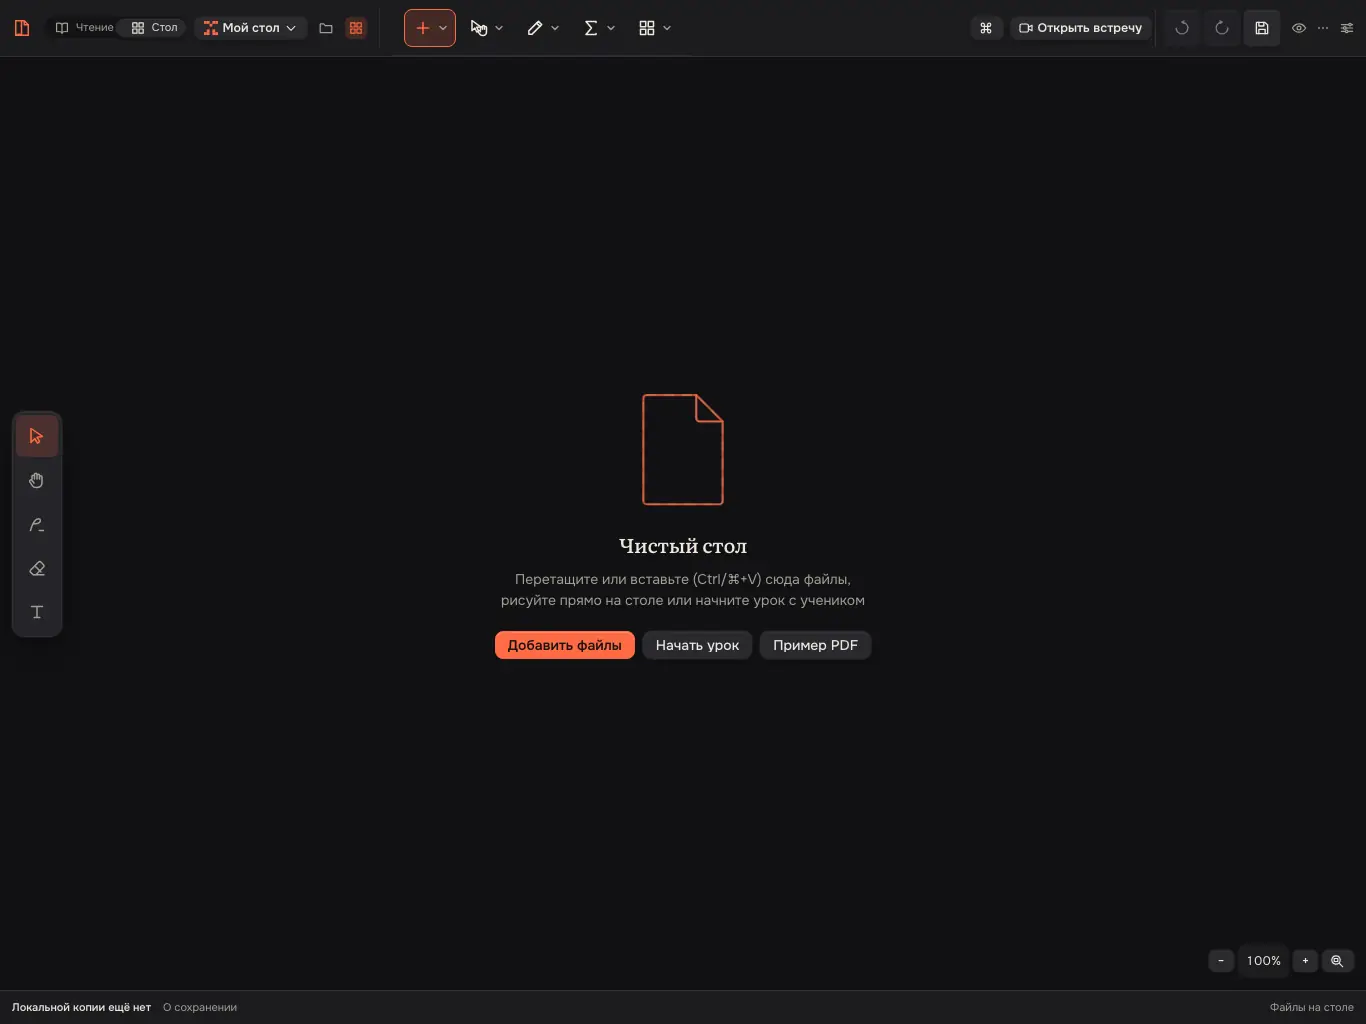
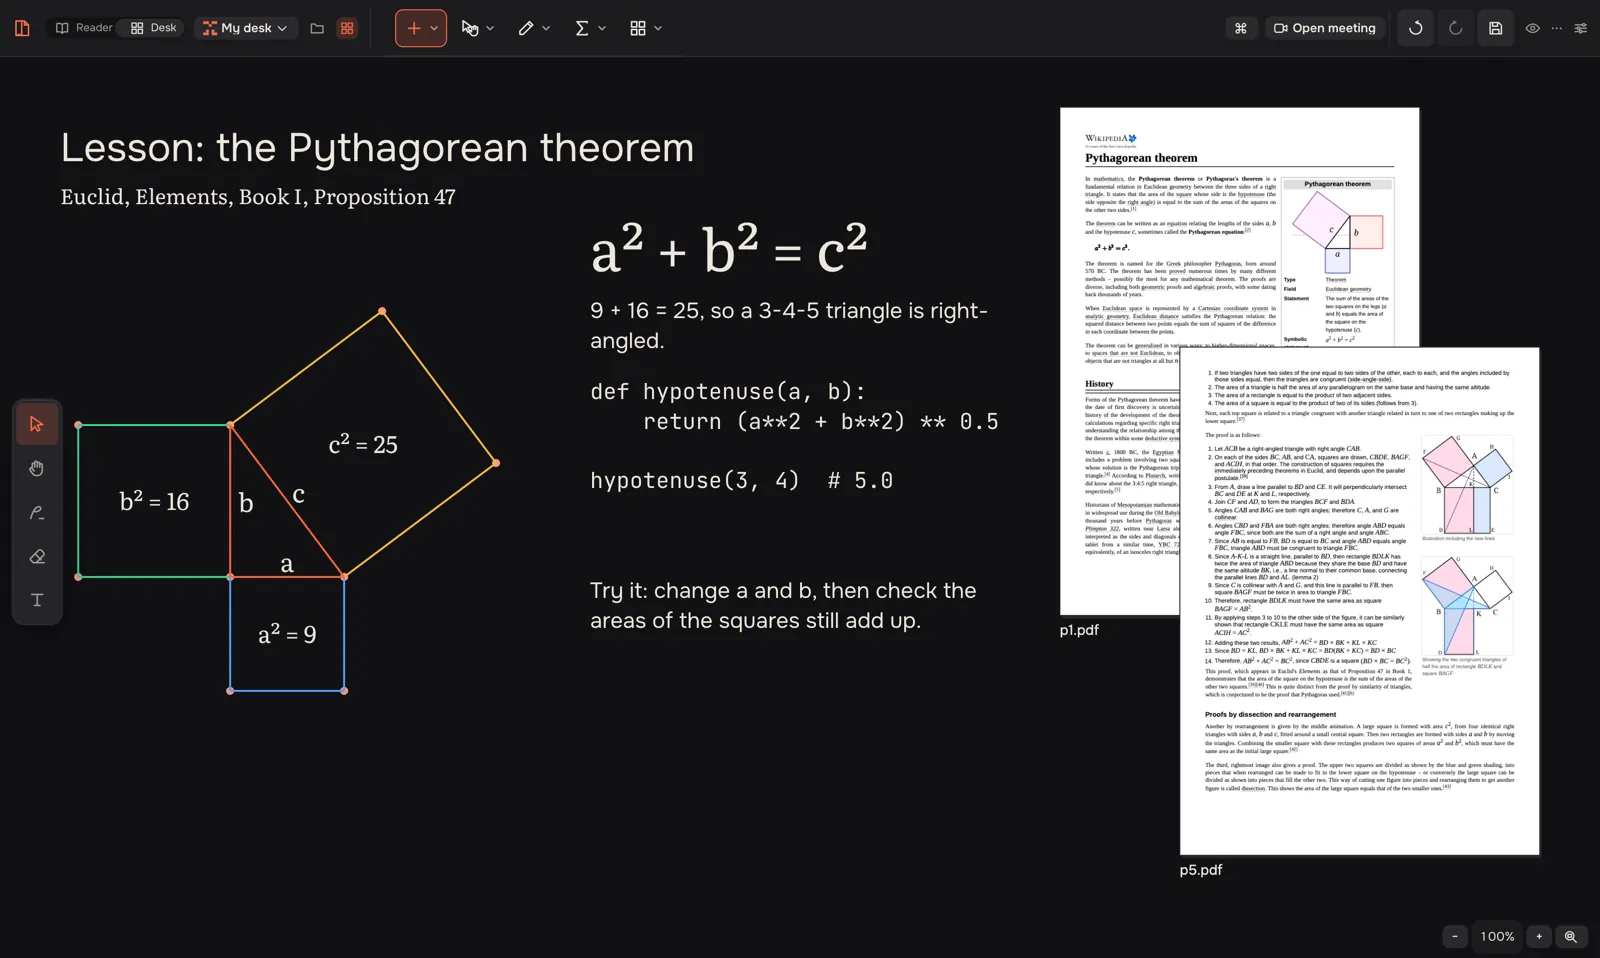
Show a Pythagorean theorem lesson in the Quire screenshots

diff --git a/lib/profile.ts b/lib/profile.ts
@@ -79,6 +79,8 @@ export type Project = {
   eyebrow?: string;
   highlights?: string[];
   note?: string;
+  shotAlt?: string;
+  credit?: string;
   /** A page of its own, when it is not generated from `slug`. */
   detailHref?: string;
   detailLabel?: string;
@@ -92,6 +94,9 @@ export const projects: Project[] = [
     stack: ["Tauri 2", "React", "TypeScript", "Playwright", "Oracle Cloud"],
     liveUrl: "https://app.thequire.app/",
     shot: "/projects/quire.webp",
+    phone: "/projects/quire-phone.webp",
+    shotAlt: "A Quire desk set up as a lesson on the Pythagorean theorem: a right triangle with a square on each side, the formula, a Python hypotenuse function and two PDF pages side by side",
+    credit: "PDF pages in the screenshots: Wikipedia, CC BY-SA 4.0.",
     noPreview: true,
     slug: "quire",
     eyebrow: "Main project, co-developed with my younger brother",

diff --git a/app/projects/[slug]/page.tsx b/app/projects/[slug]/page.tsx
@@ -48,9 +48,9 @@ export default async function ProjectPage({ params }: Params) {
             <figure className="panel min-w-0 flex-1 overflow-hidden">
               <img
                 src={`${base}${p.shot}`}
-                alt={`${p.name} on a desktop screen`}
-                width={1366}
-                height={1024}
+                alt={p.shotAlt ?? `${p.name} on a desktop screen`}
+                width={1600}
+                height={958}
                 fetchPriority="high"
                 decoding="async"
                 className="h-auto w-full"
@@ -71,6 +71,8 @@ export default async function ProjectPage({ params }: Params) {
             )}
           </div>
         </Reveal>
+
+        {p.credit && <p className="mt-3 text-micro text-fog">{p.credit}</p>}
 
         <Reveal>
           <div className="mt-10 grid gap-8 lg:grid-cols-[1.35fr_1fr]">

diff --git a/components/Projects.tsx b/components/Projects.tsx
@@ -121,7 +121,7 @@ function Shot({ project }: { project: Project }) {
     <div className="aspect-[16/10] overflow-hidden border-b border-line bg-well lg:border-b-0">
       <img
         src={`${base}${project.shot}`}
-        alt=""
+        alt={project.shotAlt ?? ""}
         width={800}
         height={500}
         loading="lazy"
